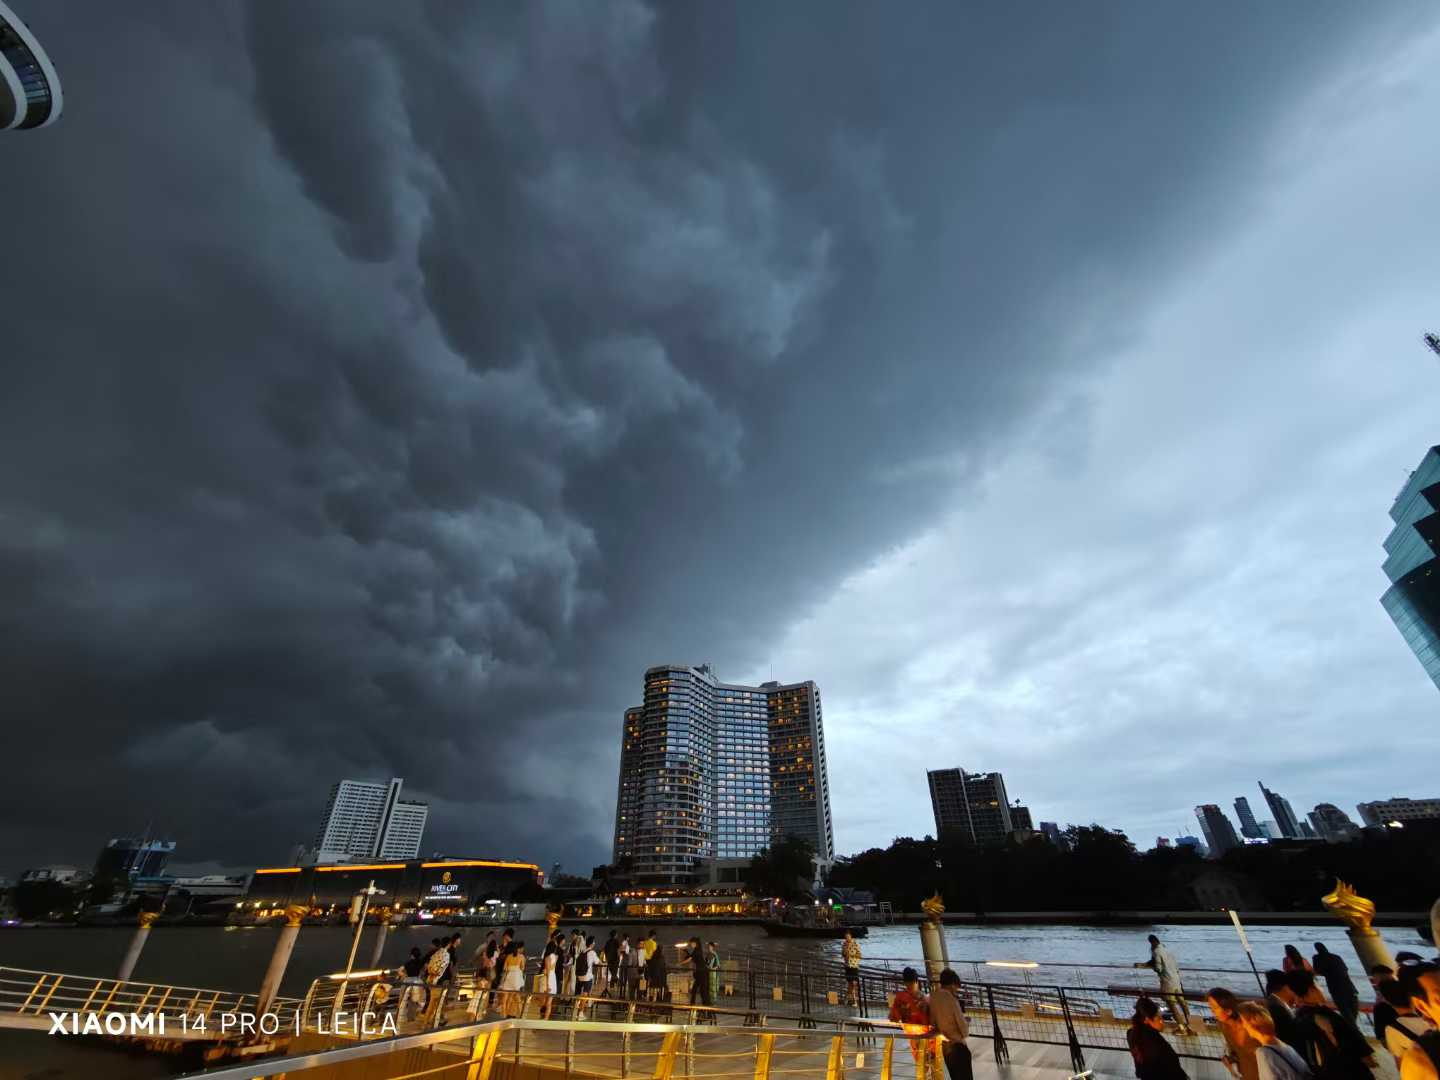
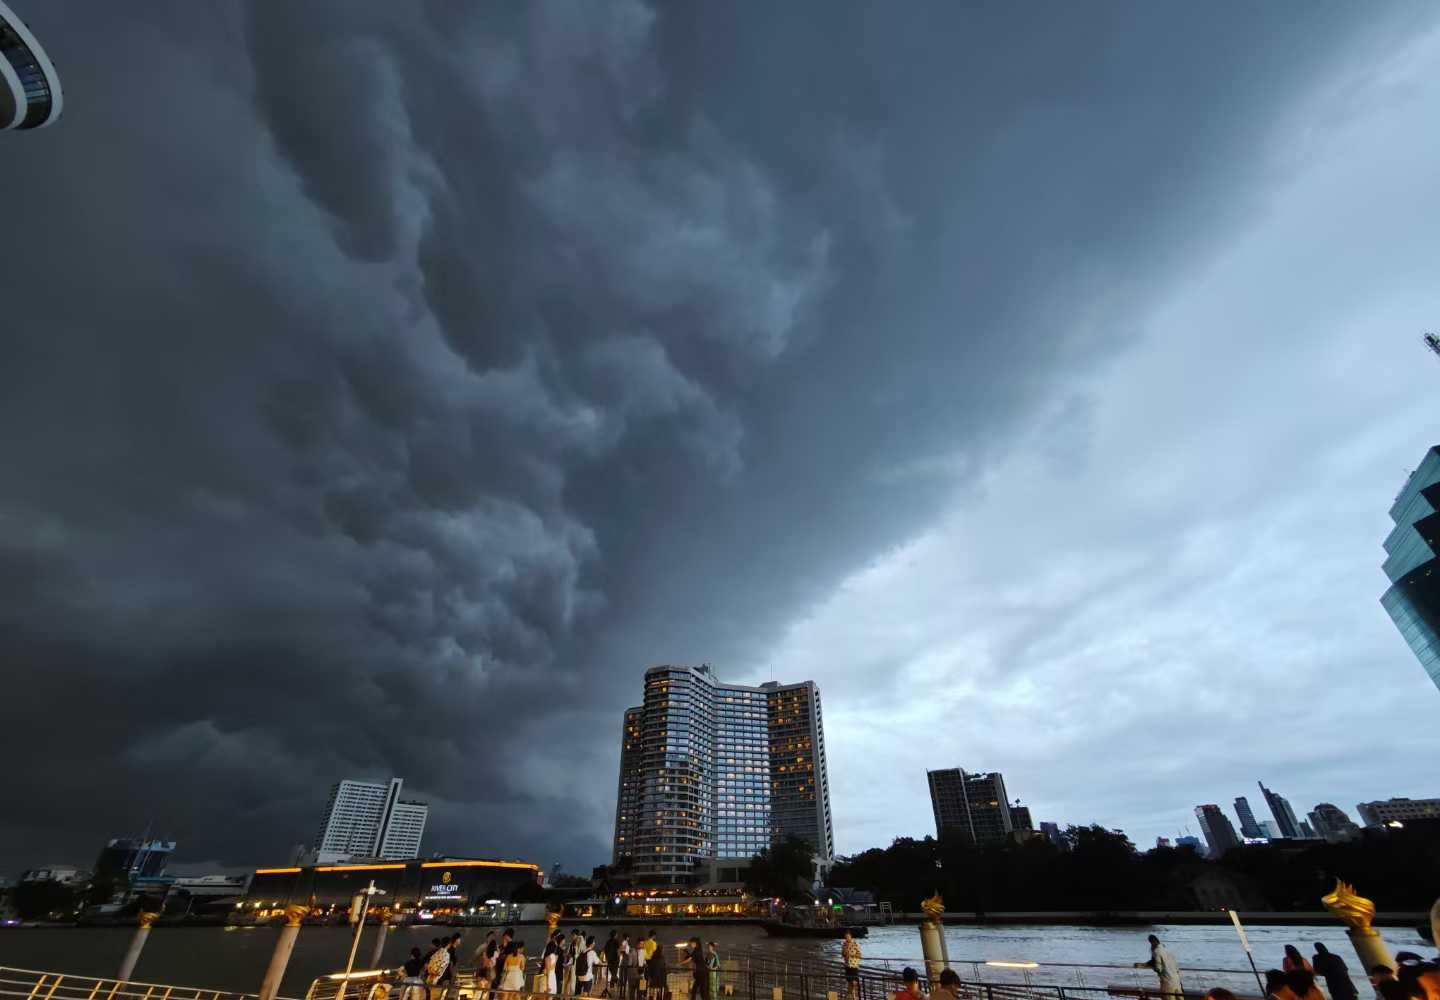
Crop the camera watermark from a photo; drop the mentor note from DSGram's author list

diff --git a/data.js b/data.js
@@ -559,7 +559,7 @@ url={https://openreview.net/forum?id=kuhIqeVg0e}
   },
   {
     title: "DSGram: Dynamic Weighting Sub-Metrics for Grammatical Error Correction in the Era of Large Language Models",
-    authors: "Jinxiang Xie, Yilin Li, <b>Xunjian Yin</b> (as Mentor), Xiaojun Wan",
+    authors: "Jinxiang Xie, Yilin Li, <b>Xunjian Yin</b>, Xiaojun Wan",
     venue: "AAAI 2025",
     links: [
       { text: "Paper", url: "https://ojs.aaai.org/index.php/AAAI/article/view/34746/36901" },
